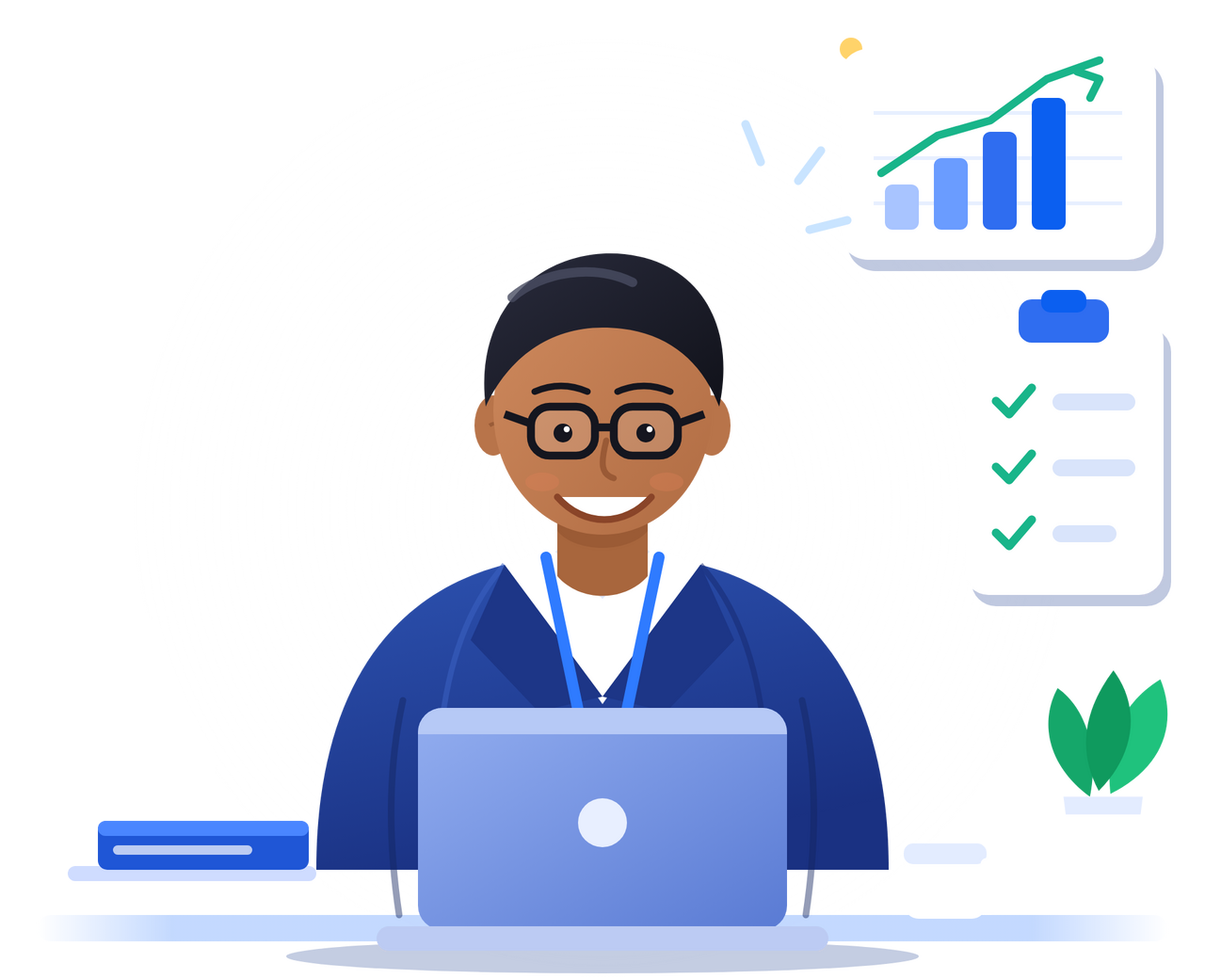
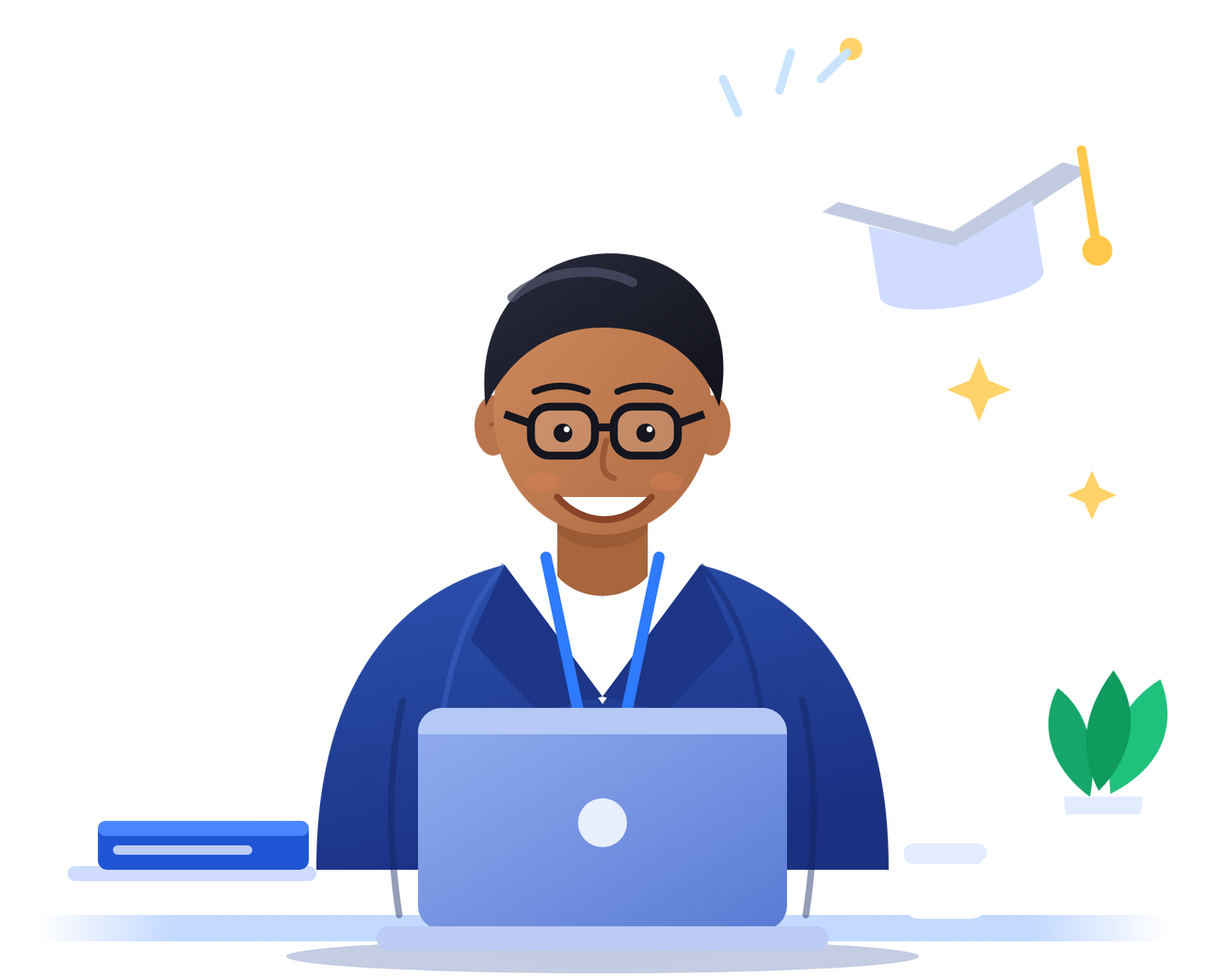
Replace sidebar with a floating-capsule navbar; remove data-looking art from hero
- Navbar: blue strip continuing the title bar (rounded bottom), glass capsule menu
  with a white pill that slides to the active item, live portal status dot,
  'new' badges, profile chip opening a menu (My account / Sign out),
  icon-only mode on narrow windows
- Hero illustration: removed the decorative bar chart and checklist (looked like
  data); replaced with a graduation cap

Claude-Session: https://claude.ai/code/session_01DTPqSLJRXHd2BuFWExTt8X

diff --git a/src/ExamBox.Admin/MainWindow.xaml b/src/ExamBox.Admin/MainWindow.xaml
@@ -1,7 +1,7 @@
 <Window UseLayoutRounding="True" SnapsToDevicePixels="True" x:Class="ExamBox.Admin.MainWindow"
         xmlns="http://schemas.microsoft.com/winfx/2006/xaml/presentation"
         xmlns:x="http://schemas.microsoft.com/winfx/2006/xaml"
-        Title="ExamBox" Width="1220" Height="780" MinWidth="960" MinHeight="620"
+        Title="ExamBox" Width="1220" Height="780" MinWidth="900" MinHeight="620"
         Background="{StaticResource BgBrush}"
         FontFamily="Segoe UI" Icon="/Assets/logo.ico">
     <Window.Triggers>
@@ -20,47 +20,13 @@
     </Window.Triggers>
     <Grid>
         <Grid x:Name="Shell" Visibility="Collapsed">
-            <Grid.ColumnDefinitions>
-                <ColumnDefinition Width="236"/>
-                <ColumnDefinition Width="*"/>
-            </Grid.ColumnDefinitions>
-            <Border Grid.Column="0" Background="{StaticResource SidebarBrush}" Padding="14,20">
-                <DockPanel>
-                    <StackPanel DockPanel.Dock="Bottom" Margin="0,10,0,0">
-                        <Border Background="#1FFFFFFF" BorderBrush="#40FFFFFF" BorderThickness="1" CornerRadius="14" Padding="14,12">
-                            <StackPanel>
-                                <StackPanel Orientation="Horizontal">
-                                    <Border Width="38" Height="38" CornerRadius="19" Background="White">
-                                        <TextBlock x:Name="UserInitial" FontWeight="ExtraBold" FontSize="16" Foreground="{StaticResource BlueDarkBrush}" HorizontalAlignment="Center" VerticalAlignment="Center"/>
-                                    </Border>
-                                    <StackPanel Margin="10,0,0,0" VerticalAlignment="Center">
-                                        <TextBlock x:Name="UserName" Foreground="White" FontWeight="Bold" TextTrimming="CharacterEllipsis" MaxWidth="120"/>
-                                        <TextBlock Text="Administrator" Foreground="#B9CBFF" FontSize="12"/>
-                                    </StackPanel>
-                                </StackPanel>
-                                <Button Content="Sign out" Click="SignOut_Click" Margin="0,12,0,0" Style="{StaticResource GhostButton}" HorizontalAlignment="Stretch" Padding="12,7"/>
-                            </StackPanel>
-                        </Border>
-                    </StackPanel>
-                    <StackPanel>
-                        <StackPanel Orientation="Horizontal" Margin="8,0,0,22">
-                            <Border Style="{StaticResource LogoBadge}" Width="46" Height="46" CornerRadius="13" Padding="8">
-                                <Image Source="/Assets/logo.png"/>
-                            </Border>
-                            <TextBlock Text="ExamBox" Foreground="White" FontSize="21" FontWeight="ExtraBold" VerticalAlignment="Center" Margin="12,0,0,0"/>
-                        </StackPanel>
-                        <TextBlock Text="MENU" Foreground="#8FB0F5" FontSize="11" FontWeight="Bold" Margin="14,0,0,8"/>
-                        <RadioButton x:Name="NavDashboard" Tag="dashboard" GroupName="nav" Style="{StaticResource NavButton}" Click="Nav_Click"><StackPanel Orientation="Horizontal"><TextBlock Text="&#xE80F;" FontFamily="Segoe MDL2 Assets" FontSize="15" Width="28" VerticalAlignment="Center"/><TextBlock Text="Dashboard" VerticalAlignment="Center"/></StackPanel></RadioButton>
-                        <RadioButton x:Name="NavStudents" Tag="students" GroupName="nav" Style="{StaticResource NavButton}" Click="Nav_Click"><StackPanel Orientation="Horizontal"><TextBlock Text="&#xE716;" FontFamily="Segoe MDL2 Assets" FontSize="15" Width="28" VerticalAlignment="Center"/><TextBlock Text="Students" VerticalAlignment="Center"/></StackPanel></RadioButton>
-                        <RadioButton x:Name="NavExams" Tag="exams" GroupName="nav" Style="{StaticResource NavButton}" Click="Nav_Click"><StackPanel Orientation="Horizontal"><TextBlock Text="&#xE8A5;" FontFamily="Segoe MDL2 Assets" FontSize="15" Width="28" VerticalAlignment="Center"/><TextBlock Text="Exams" VerticalAlignment="Center"/></StackPanel></RadioButton>
-                        <RadioButton x:Name="NavReports" Tag="reports" GroupName="nav" Style="{StaticResource NavButton}" Click="Nav_Click"><StackPanel Orientation="Horizontal"><TextBlock Text="&#xE9D2;" FontFamily="Segoe MDL2 Assets" FontSize="15" Width="28" VerticalAlignment="Center"/><TextBlock Text="Reports" VerticalAlignment="Center"/><Border x:Name="ReportsBadge" Background="#2FD6A2" CornerRadius="8" Padding="7,1" Margin="10,0,0,0" VerticalAlignment="Center" Visibility="Collapsed"><TextBlock Text="new" FontSize="10" FontWeight="Bold" Foreground="#073B2A"/></Border></StackPanel></RadioButton>
-                        <RadioButton x:Name="NavSettings" Tag="settings" GroupName="nav" Style="{StaticResource NavButton}" Click="Nav_Click"><StackPanel Orientation="Horizontal"><TextBlock Text="&#xE713;" FontFamily="Segoe MDL2 Assets" FontSize="15" Width="28" VerticalAlignment="Center"/><TextBlock Text="Settings" VerticalAlignment="Center"/><Border x:Name="SettingsBadge" Background="#2FD6A2" CornerRadius="8" Padding="7,1" Margin="10,0,0,0" VerticalAlignment="Center" Visibility="Collapsed"><TextBlock Text="new" FontSize="10" FontWeight="Bold" Foreground="#073B2A"/></Border></StackPanel></RadioButton>
-                        <RadioButton x:Name="NavServer" Tag="server" GroupName="nav" Style="{StaticResource NavButton}" Click="Nav_Click"><StackPanel Orientation="Horizontal"><TextBlock Text="&#xE774;" FontFamily="Segoe MDL2 Assets" FontSize="15" Width="28" VerticalAlignment="Center"/><TextBlock Text="Student portal" VerticalAlignment="Center"/></StackPanel></RadioButton>
-                        <RadioButton x:Name="NavAccount" Tag="account" GroupName="nav" Style="{StaticResource NavButton}" Click="Nav_Click"><StackPanel Orientation="Horizontal"><TextBlock Text="&#xE77B;" FontFamily="Segoe MDL2 Assets" FontSize="15" Width="28" VerticalAlignment="Center"/><TextBlock Text="My account" VerticalAlignment="Center"/></StackPanel></RadioButton>
-                    </StackPanel>
-                </DockPanel>
-            </Border>
-            <Grid Grid.Column="1" Background="{StaticResource PageBackgroundBrush}" ClipToBounds="True">
+            <Grid.RowDefinitions>
+                <RowDefinition Height="Auto"/>
+                <RowDefinition Height="*"/>
+            </Grid.RowDefinitions>
+
+            <!-- soft gradient page with drifting orbs behind everything -->
+            <Grid Grid.RowSpan="2" Background="{StaticResource PageBackgroundBrush}" ClipToBounds="True">
                 <Ellipse Width="760" Height="760" Fill="{StaticResource OrbBlueBrush}" HorizontalAlignment="Right" VerticalAlignment="Top" Margin="0,-300,-260,0" IsHitTestVisible="False">
                     <Ellipse.RenderTransform><TranslateTransform x:Name="OrbA"/></Ellipse.RenderTransform>
                 </Ellipse>
@@ -70,8 +36,86 @@
                 <Ellipse Width="480" Height="480" Fill="{StaticResource OrbTealBrush}" HorizontalAlignment="Right" VerticalAlignment="Bottom" Margin="0,0,140,-210" IsHitTestVisible="False">
                     <Ellipse.RenderTransform><TranslateTransform x:Name="OrbC"/></Ellipse.RenderTransform>
                 </Ellipse>
-                <ContentControl x:Name="Page" Margin="30,26,30,20"/>
             </Grid>
+
+            <ContentControl x:Name="Page" Grid.Row="1" Margin="30,24,30,20"/>
+
+            <!-- navbar: a blue strip that continues the title bar, with rounded bottom corners -->
+            <Border x:Name="TopBar" Grid.Row="0" CornerRadius="0,0,30,30" Padding="26,12,26,14" Effect="{StaticResource SoftShadow}">
+                <Border.Background>
+                    <LinearGradientBrush StartPoint="0,0" EndPoint="1,1">
+                        <GradientStop Color="#0847B8" Offset="0"/>
+                        <GradientStop Color="#0A4FCB" Offset="0.55"/>
+                        <GradientStop Color="#1565F0" Offset="1"/>
+                    </LinearGradientBrush>
+                </Border.Background>
+                <Grid>
+                    <Grid.ColumnDefinitions>
+                        <ColumnDefinition Width="Auto"/>
+                        <ColumnDefinition Width="*"/>
+                        <ColumnDefinition Width="Auto"/>
+                    </Grid.ColumnDefinitions>
+
+                    <StackPanel Grid.Column="0" Orientation="Horizontal" VerticalAlignment="Center">
+                        <Border Style="{StaticResource LogoBadge}" Width="44" Height="44" CornerRadius="13" Padding="8">
+                            <Image Source="/Assets/logo.png"/>
+                        </Border>
+                        <StackPanel x:Name="BrandText" Margin="12,0,0,0" VerticalAlignment="Center">
+                            <TextBlock x:Name="BrandName" Text="ExamBox" Foreground="White" FontSize="19" FontWeight="ExtraBold" MaxWidth="190" TextTrimming="CharacterEllipsis"/>
+                            <TextBlock Text="ADMIN" Foreground="#9FB8F0" FontSize="10.5" FontWeight="Bold"/>
+                        </StackPanel>
+                    </StackPanel>
+
+                    <Border x:Name="NavCapsule" Grid.Column="1" HorizontalAlignment="Center" VerticalAlignment="Center" Background="#1FFFFFFF" BorderBrush="#47FFFFFF" BorderThickness="1" CornerRadius="26" Padding="5">
+                        <Grid>
+                            <Border x:Name="NavPill" Background="White" CornerRadius="21" HorizontalAlignment="Left" Width="0" Opacity="0" IsHitTestVisible="False" Effect="{StaticResource CardShadow}">
+                                <Border.RenderTransform><TranslateTransform x:Name="PillMove"/></Border.RenderTransform>
+                            </Border>
+                            <StackPanel x:Name="NavItems" Orientation="Horizontal">
+                            <RadioButton x:Name="NavDashboard" Tag="dashboard" GroupName="nav" ToolTip="Dashboard" Style="{StaticResource TopNavButton}" Click="Nav_Click"><StackPanel Orientation="Horizontal"><TextBlock Text="&#xE80F;" FontFamily="Segoe MDL2 Assets" FontSize="15" VerticalAlignment="Center"/><TextBlock Text="Dashboard" Margin="9,0,0,0" VerticalAlignment="Center"/></StackPanel></RadioButton>
+                            <RadioButton x:Name="NavStudents" Tag="students" GroupName="nav" ToolTip="Students" Style="{StaticResource TopNavButton}" Click="Nav_Click"><StackPanel Orientation="Horizontal"><TextBlock Text="&#xE716;" FontFamily="Segoe MDL2 Assets" FontSize="15" VerticalAlignment="Center"/><TextBlock Text="Students" Margin="9,0,0,0" VerticalAlignment="Center"/></StackPanel></RadioButton>
+                            <RadioButton x:Name="NavExams" Tag="exams" GroupName="nav" ToolTip="Exams" Style="{StaticResource TopNavButton}" Click="Nav_Click"><StackPanel Orientation="Horizontal"><TextBlock Text="&#xE8A5;" FontFamily="Segoe MDL2 Assets" FontSize="15" VerticalAlignment="Center"/><TextBlock Text="Exams" Margin="9,0,0,0" VerticalAlignment="Center"/></StackPanel></RadioButton>
+                            <RadioButton x:Name="NavReports" Tag="reports" GroupName="nav" ToolTip="Reports" Style="{StaticResource TopNavButton}" Click="Nav_Click"><StackPanel Orientation="Horizontal"><TextBlock Text="&#xE9D2;" FontFamily="Segoe MDL2 Assets" FontSize="15" VerticalAlignment="Center"/><TextBlock Text="Reports" Margin="9,0,0,0" VerticalAlignment="Center"/><Border x:Name="ReportsBadge" Background="#2FD6A2" CornerRadius="8" Padding="7,1" Margin="8,0,0,0" VerticalAlignment="Center" Visibility="Collapsed"><TextBlock Text="new" FontSize="10" FontWeight="Bold" Foreground="#073B2A"/></Border></StackPanel></RadioButton>
+                            <RadioButton x:Name="NavSettings" Tag="settings" GroupName="nav" ToolTip="Settings" Style="{StaticResource TopNavButton}" Click="Nav_Click"><StackPanel Orientation="Horizontal"><TextBlock Text="&#xE713;" FontFamily="Segoe MDL2 Assets" FontSize="15" VerticalAlignment="Center"/><TextBlock Text="Settings" Margin="9,0,0,0" VerticalAlignment="Center"/><Border x:Name="SettingsBadge" Background="#2FD6A2" CornerRadius="8" Padding="7,1" Margin="8,0,0,0" VerticalAlignment="Center" Visibility="Collapsed"><TextBlock Text="new" FontSize="10" FontWeight="Bold" Foreground="#073B2A"/></Border></StackPanel></RadioButton>
+                            <RadioButton x:Name="NavServer" Tag="server" GroupName="nav" ToolTip="Student portal" Style="{StaticResource TopNavButton}" Click="Nav_Click"><StackPanel Orientation="Horizontal"><TextBlock Text="&#xE774;" FontFamily="Segoe MDL2 Assets" FontSize="15" VerticalAlignment="Center"/><TextBlock Text="Student portal" Margin="9,0,0,0" VerticalAlignment="Center"/><Ellipse x:Name="PortalDot" Width="8" Height="8" Margin="8,0,0,0" VerticalAlignment="Center" Fill="#E5484D" Stroke="White" StrokeThickness="1.5"/></StackPanel></RadioButton>
+                            </StackPanel>
+                        </Grid>
+                    </Border>
+
+                    <Border x:Name="ProfileChip" Grid.Column="2" Background="#1FFFFFFF" BorderBrush="#47FFFFFF" BorderThickness="1" CornerRadius="26" Padding="5,5,14,5" Cursor="Hand" VerticalAlignment="Center" MouseLeftButtonUp="Profile_Click">
+                        <StackPanel Orientation="Horizontal">
+                            <Border Width="36" Height="36" CornerRadius="18" Background="White">
+                                <TextBlock x:Name="UserInitial" FontWeight="ExtraBold" FontSize="15" Foreground="{StaticResource BlueDarkBrush}" HorizontalAlignment="Center" VerticalAlignment="Center"/>
+                            </Border>
+                            <StackPanel x:Name="ProfileText" Margin="10,0,0,0" VerticalAlignment="Center">
+                                <TextBlock x:Name="UserName" Foreground="White" FontWeight="Bold" FontSize="13" TextTrimming="CharacterEllipsis" MaxWidth="110"/>
+                                <TextBlock Text="Administrator" Foreground="#B9CBFF" FontSize="11"/>
+                            </StackPanel>
+                            <TextBlock Text="&#xE70D;" FontFamily="Segoe MDL2 Assets" FontSize="10" Foreground="#C9D8FF" VerticalAlignment="Center" Margin="10,0,0,0"/>
+                        </StackPanel>
+                    </Border>
+
+                    <Popup x:Name="ProfilePopup" PlacementTarget="{Binding ElementName=ProfileChip}" Placement="Bottom" StaysOpen="False" AllowsTransparency="True" PopupAnimation="Fade">
+                        <Border Width="250" Background="White" CornerRadius="16" Padding="8" Margin="10,8,10,18" BorderBrush="#E3E8F3" BorderThickness="1">
+                            <Border.Effect><DropShadowEffect BlurRadius="24" ShadowDepth="6" Direction="270" Opacity="0.22" Color="#0F2A6B"/></Border.Effect>
+                            <StackPanel>
+                                <StackPanel Orientation="Horizontal" Margin="10,8,10,10">
+                                    <Border Width="40" Height="40" CornerRadius="20" Background="{StaticResource BlueLightBrush}">
+                                        <TextBlock x:Name="MenuInitial" FontWeight="ExtraBold" FontSize="16" Foreground="{StaticResource BlueBrush}" HorizontalAlignment="Center" VerticalAlignment="Center"/>
+                                    </Border>
+                                    <StackPanel Margin="12,0,0,0" VerticalAlignment="Center">
+                                        <TextBlock x:Name="MenuName" FontWeight="Bold" Foreground="{StaticResource InkBrush}" MaxWidth="150" TextTrimming="CharacterEllipsis"/>
+                                        <TextBlock Text="Administrator" FontSize="12" Foreground="{StaticResource MutedBrush}"/>
+                                    </StackPanel>
+                                </StackPanel>
+                                <Border Height="1" Background="{StaticResource LineBrush}" Margin="4,0,4,6"/>
+                                <Button Style="{StaticResource MenuRow}" Click="MyAccount_Click"><StackPanel Orientation="Horizontal"><TextBlock Text="&#xE77B;" FontFamily="Segoe MDL2 Assets" Foreground="{StaticResource BlueBrush}" Width="26" VerticalAlignment="Center"/><TextBlock Text="My account"/></StackPanel></Button>
+                                <Button Style="{StaticResource MenuRow}" Click="SignOut_Click"><StackPanel Orientation="Horizontal"><TextBlock Text="&#xE7E8;" FontFamily="Segoe MDL2 Assets" Foreground="{StaticResource ErrBrush}" Width="26" VerticalAlignment="Center"/><TextBlock Text="Sign out" Foreground="{StaticResource ErrBrush}"/></StackPanel></Button>
+                            </StackPanel>
+                        </Border>
+                    </Popup>
+                </Grid>
+            </Border>
         </Grid>
         <ContentControl x:Name="AuthHost"/>
     </Grid>

diff --git a/src/ExamBox.Admin/App.xaml b/src/ExamBox.Admin/App.xaml
@@ -192,6 +192,57 @@
             <Setter Property="RenderOptions.EdgeMode" Value="Unspecified"/>
         </Style>
 
+        <!-- top navigation: items sit on a glass capsule; a white pill slides under the active one -->
+        <Style x:Key="TopNavButton" TargetType="RadioButton">
+            <Setter Property="Foreground" Value="#D3E1FF"/>
+            <Setter Property="FontSize" Value="14"/>
+            <Setter Property="FontWeight" Value="SemiBold"/>
+            <Setter Property="Padding" Value="16,10"/>
+            <Setter Property="Cursor" Value="Hand"/>
+            <Setter Property="FocusVisualStyle" Value="{x:Null}"/>
+            <Setter Property="Template">
+                <Setter.Value>
+                    <ControlTemplate TargetType="RadioButton">
+                        <Grid Background="Transparent">
+                            <Border x:Name="Hover" Background="White" CornerRadius="21" Opacity="0" IsHitTestVisible="False"/>
+                            <ContentPresenter Margin="{TemplateBinding Padding}" VerticalAlignment="Center" HorizontalAlignment="Center"/>
+                        </Grid>
+                        <ControlTemplate.Triggers>
+                            <Trigger Property="IsMouseOver" Value="True">
+                                <Setter Property="Foreground" Value="White"/>
+                                <Trigger.EnterActions><BeginStoryboard><Storyboard><DoubleAnimation Storyboard.TargetName="Hover" Storyboard.TargetProperty="Opacity" To="0.14" Duration="0:0:0.15"/></Storyboard></BeginStoryboard></Trigger.EnterActions>
+                                <Trigger.ExitActions><BeginStoryboard><Storyboard><DoubleAnimation Storyboard.TargetName="Hover" Storyboard.TargetProperty="Opacity" To="0" Duration="0:0:0.22"/></Storyboard></BeginStoryboard></Trigger.ExitActions>
+                            </Trigger>
+                            <Trigger Property="IsChecked" Value="True">
+                                <Setter Property="Foreground" Value="{StaticResource BlueDarkBrush}"/>
+                                <Setter TargetName="Hover" Property="Opacity" Value="0"/>
+                            </Trigger>
+                        </ControlTemplate.Triggers>
+                    </ControlTemplate>
+                </Setter.Value>
+            </Setter>
+        </Style>
+        <Style x:Key="MenuRow" TargetType="Button">
+            <Setter Property="Foreground" Value="{StaticResource InkBrush}"/>
+            <Setter Property="FontSize" Value="14"/>
+            <Setter Property="FontWeight" Value="SemiBold"/>
+            <Setter Property="Cursor" Value="Hand"/>
+            <Setter Property="HorizontalContentAlignment" Value="Left"/>
+            <Setter Property="FocusVisualStyle" Value="{x:Null}"/>
+            <Setter Property="Template">
+                <Setter.Value>
+                    <ControlTemplate TargetType="Button">
+                        <Border x:Name="Bd" CornerRadius="10" Background="Transparent" Padding="12,10">
+                            <ContentPresenter HorizontalAlignment="Left" VerticalAlignment="Center"/>
+                        </Border>
+                        <ControlTemplate.Triggers>
+                            <Trigger Property="IsMouseOver" Value="True"><Setter TargetName="Bd" Property="Background" Value="{StaticResource BlueLightBrush}"/></Trigger>
+                        </ControlTemplate.Triggers>
+                    </ControlTemplate>
+                </Setter.Value>
+            </Setter>
+        </Style>
+
         <!-- text -->
         <Style x:Key="H1" TargetType="TextBlock">
             <Setter Property="FontSize" Value="26"/>

diff --git a/src/ExamBox.Admin/MainWindow.xaml.cs b/src/ExamBox.Admin/MainWindow.xaml.cs
@@ -1,5 +1,7 @@
 using System.Windows;
 using System.Windows.Controls;
+using System.Windows.Media;
+using System.Windows.Media.Animation;
 using ExamBox.Models;
 
 namespace ExamBox.Admin;
@@ -15,8 +17,66 @@ public partial class MainWindow : Window
         // Maximise once the native window exists (setting it in XAML together with CenterScreen can size the
         // window to the whole monitor, hiding the bottom of the UI under the taskbar).
         SourceInitialized += (_, _) => WindowState = WindowState.Maximized;
+        SizeChanged += (_, _) => ApplyCompact();
+        NavItems.SizeChanged += (_, _) => MovePill(CurrentNav, animate: false);
+        App.Portal.Changed += RenderPortalDot;
         ShowAuth();
     }
+
+    private RadioButton[] NavButtons => new[] { NavDashboard, NavStudents, NavExams, NavReports, NavSettings, NavServer };
+    private RadioButton? CurrentNav => NavButtons.FirstOrDefault(r => r.IsChecked == true);
+
+    /// <summary>Narrow windows: icons only (labels move into tooltips), then hide the brand and profile text too.</summary>
+    private void ApplyCompact()
+    {
+        var iconsOnly = ActualWidth < 1290;
+        foreach (var r in NavButtons)
+        {
+            var kids = ((StackPanel)r.Content).Children;
+            kids[1].Visibility = iconsOnly ? Visibility.Collapsed : Visibility.Visible;
+            r.Padding = iconsOnly ? new Thickness(13, 10, 13, 10) : new Thickness(16, 10, 16, 10);
+        }
+        BrandText.Visibility = ProfileText.Visibility = ActualWidth < 1060 ? Visibility.Collapsed : Visibility.Visible;
+        RefreshBadges(iconsOnly);
+    }
+
+    private void RefreshBadges(bool? iconsOnly = null)
+    {
+        var compact = iconsOnly ?? ActualWidth < 1290;
+        ReportsBadge.Visibility = !compact && !App.Settings.SeenReports ? Visibility.Visible : Visibility.Collapsed;
+        SettingsBadge.Visibility = !compact && !App.Settings.SeenSettings ? Visibility.Visible : Visibility.Collapsed;
+    }
+
+    private void RenderPortalDot() =>
+        PortalDot.Fill = (Brush)FindResource(App.Portal.Running ? "OkBrush" : "ErrBrush");
+
+    /// <summary>Slides the white highlight under the active item.</summary>
+    private void MovePill(RadioButton? target, bool animate = true)
+    {
+        if (target == null) { NavPill.Opacity = 0; return; }
+        NavItems.UpdateLayout();
+        var x = target.TranslatePoint(new Point(0, 0), NavItems).X;
+        var w = target.ActualWidth;
+        if (!animate || NavPill.Opacity == 0 || NavPill.Width == 0)
+        {
+            NavPill.BeginAnimation(WidthProperty, null); PillMove.BeginAnimation(TranslateTransform.XProperty, null);
+            NavPill.Width = w; PillMove.X = x; NavPill.Opacity = 1;
+            return;
+        }
+        var ease = new CubicEase { EasingMode = EasingMode.EaseInOut };
+        var t = TimeSpan.FromMilliseconds(320);
+        PillMove.BeginAnimation(TranslateTransform.XProperty, new DoubleAnimation(x, t) { EasingFunction = ease });
+        NavPill.BeginAnimation(WidthProperty, new DoubleAnimation(w, t) { EasingFunction = ease });
+    }
+
+    private void Profile_Click(object sender, System.Windows.Input.MouseButtonEventArgs e)
+    {
+        if (ProfilePopup.IsOpen) return;
+        ProfilePopup.HorizontalOffset = ProfileChip.ActualWidth - 270;   // right-align the menu under the chip
+        ProfilePopup.IsOpen = true;
+    }
+
+    private void MyAccount_Click(object sender, RoutedEventArgs e) { ProfilePopup.IsOpen = false; Go("account"); }
 
     private void ShowAuth()
     {
@@ -29,13 +89,15 @@ public partial class MainWindow : Window
     public void SignedIn(User user)
     {
         App.CurrentUser = user;
-        UserName.Text = user.FullName;
-        ReportsBadge.Visibility = App.Settings.SeenReports ? Visibility.Collapsed : Visibility.Visible;
-        SettingsBadge.Visibility = App.Settings.SeenSettings ? Visibility.Collapsed : Visibility.Visible;
-        UserInitial.Text = string.IsNullOrEmpty(user.FullName) ? "?" : user.FullName[..1].ToUpperInvariant();
+        var initial = string.IsNullOrEmpty(user.FullName) ? "?" : user.FullName[..1].ToUpperInvariant();
+        UserName.Text = MenuName.Text = user.FullName;
+        UserInitial.Text = MenuInitial.Text = initial;
+        BrandName.Text = string.IsNullOrWhiteSpace(App.Settings.InstitutionName) ? "ExamBox" : App.Settings.InstitutionName;
+        RenderPortalDot();
         AuthHost.Content = null;
         AuthHost.Visibility = Visibility.Collapsed;
         Shell.Visibility = Visibility.Visible;
+        ApplyCompact();
         Go("dashboard");
     }
 
@@ -44,17 +106,18 @@ public partial class MainWindow : Window
     {
         var (radio, view) = page switch
         {
-            "students" => (NavStudents, (UserControl)new StudentsView(openAdd)),
+            "students" => ((RadioButton?)NavStudents, (UserControl)new StudentsView(openAdd)),
             "exams" => (NavExams, new ExamsView(openAdd)),
             "reports" => (NavReports, new ReportsView()),
             "settings" => (NavSettings, new SettingsView()),
             "server" => (NavServer, new ServerView()),
-            "account" => (NavAccount, new AccountView()),
+            "account" => ((RadioButton?)null, new AccountView()),
             _ => (NavDashboard, new DashboardView()),
         };
-        radio.IsChecked = true;
-        if (page == "reports" && !App.Settings.SeenReports) { App.Settings.SeenReports = true; App.Settings.Save(); ReportsBadge.Visibility = Visibility.Collapsed; }
-        if (page == "settings" && !App.Settings.SeenSettings) { App.Settings.SeenSettings = true; App.Settings.Save(); SettingsBadge.Visibility = Visibility.Collapsed; }
+        foreach (var r in NavButtons) r.IsChecked = r == radio;
+        MovePill(radio);
+        if (page == "reports" && !App.Settings.SeenReports) { App.Settings.SeenReports = true; App.Settings.Save(); RefreshBadges(); }
+        if (page == "settings" && !App.Settings.SeenSettings) { App.Settings.SeenSettings = true; App.Settings.Save(); RefreshBadges(); }
         ShowPage(view);
     }
 
@@ -72,7 +135,8 @@ public partial class MainWindow : Window
     /// <summary>Open one exam's detail page (keeps "Exams" highlighted).</summary>
     public void OpenExam(int id)
     {
-        NavExams.IsChecked = true;
+        foreach (var r in NavButtons) r.IsChecked = r == NavExams;
+        MovePill(NavExams);
         ShowPage(new ExamDetailView(id));
     }
 
@@ -80,6 +144,7 @@ public partial class MainWindow : Window
 
     private void SignOut_Click(object sender, RoutedEventArgs e)
     {
+        ProfilePopup.IsOpen = false;
         App.CurrentUser = null;
         ShowAuth();
     }
